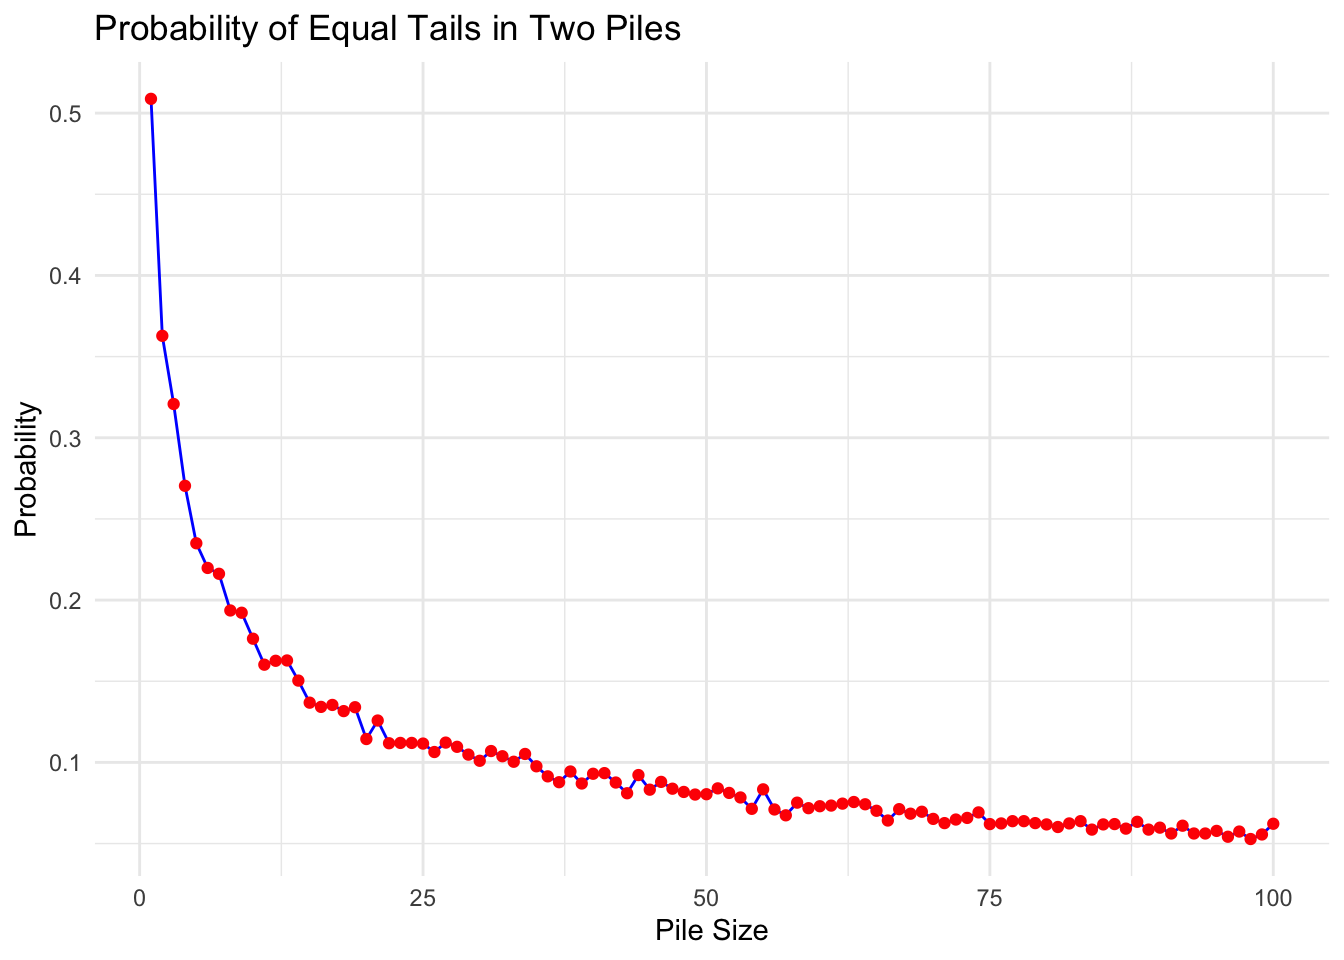
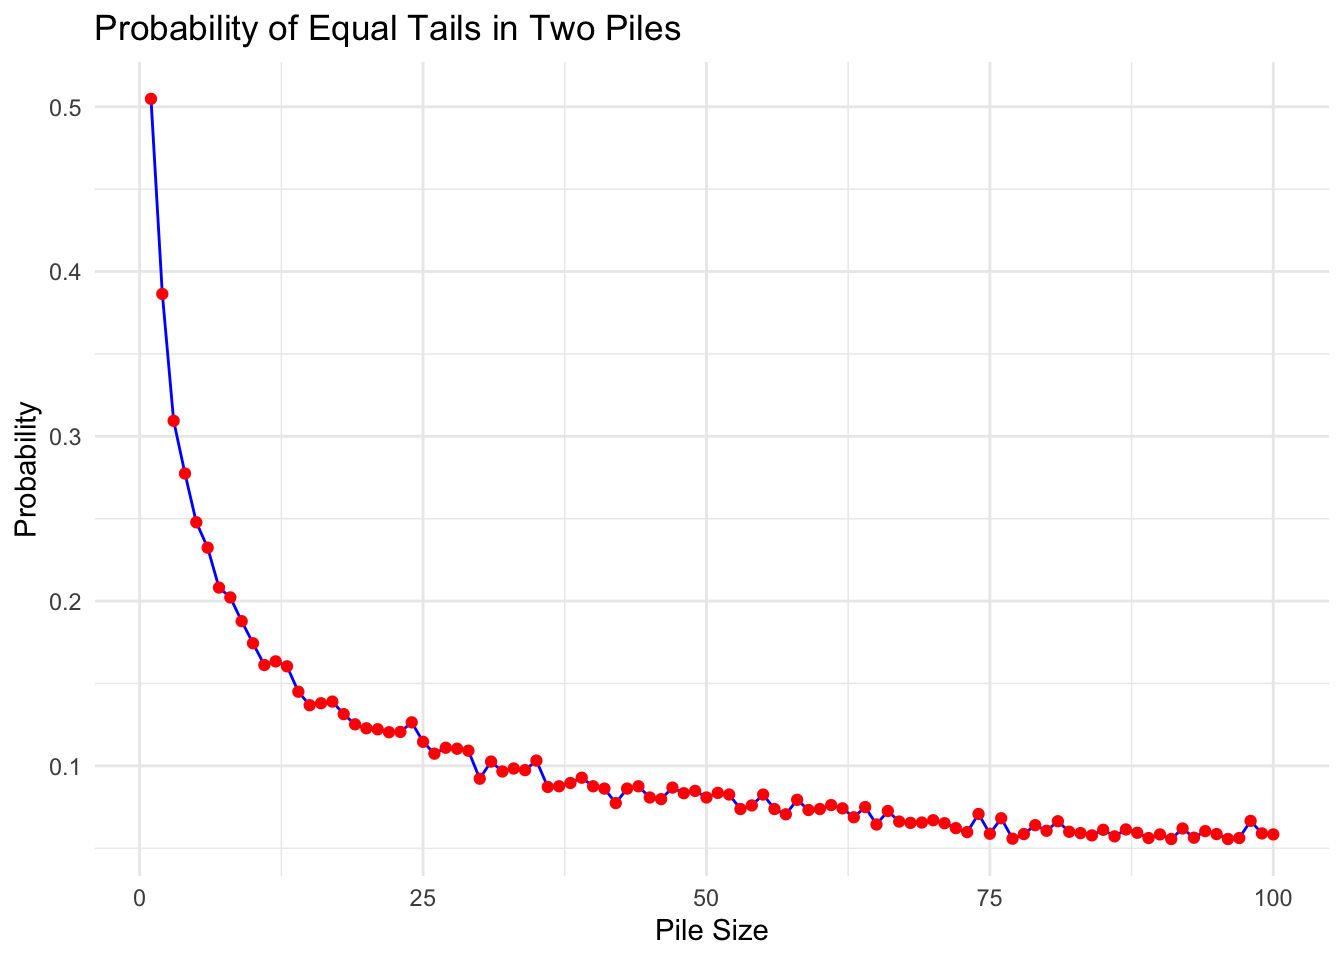
fixed variable names

diff --git a/docs/Project3.html b/docs/Project3.html
@@ -219,23 +219,23 @@ pre > code.sourceCode > span > a:first-child::before { text-decoration: underlin
 <div class="sourceCode cell-code" id="cb1"><pre class="sourceCode r code-with-copy"><code class="sourceCode r"><span id="cb1-1"><a href="#cb1-1" aria-hidden="true" tabindex="-1"></a><span class="fu">library</span>(purrr)</span>
 <span id="cb1-2"><a href="#cb1-2" aria-hidden="true" tabindex="-1"></a>coin_flip <span class="ot">&lt;-</span> <span class="fu">c</span>(<span class="dv">0</span>, <span class="dv">1</span>)</span>
 <span id="cb1-3"><a href="#cb1-3" aria-hidden="true" tabindex="-1"></a></span>
-<span id="cb1-4"><a href="#cb1-4" aria-hidden="true" tabindex="-1"></a>flip_coins <span class="ot">&lt;-</span> <span class="cf">function</span>(num_coins) {</span>
-<span id="cb1-5"><a href="#cb1-5" aria-hidden="true" tabindex="-1"></a>  left_pile <span class="ot">&lt;-</span> <span class="fu">sample</span>(coin_flip, <span class="at">size =</span> num_coins, <span class="at">replace =</span> <span class="cn">TRUE</span>)</span>
-<span id="cb1-6"><a href="#cb1-6" aria-hidden="true" tabindex="-1"></a>  right_pile <span class="ot">&lt;-</span> <span class="fu">sample</span>(coin_flip, <span class="at">size =</span> num_coins, <span class="at">replace =</span> <span class="cn">TRUE</span>)</span>
+<span id="cb1-4"><a href="#cb1-4" aria-hidden="true" tabindex="-1"></a>flip_coins <span class="ot">&lt;-</span> <span class="cf">function</span>(pile_size) {</span>
+<span id="cb1-5"><a href="#cb1-5" aria-hidden="true" tabindex="-1"></a>  left_pile <span class="ot">&lt;-</span> <span class="fu">sample</span>(coin_flip, <span class="at">size =</span> pile_size, <span class="at">replace =</span> <span class="cn">TRUE</span>)</span>
+<span id="cb1-6"><a href="#cb1-6" aria-hidden="true" tabindex="-1"></a>  right_pile <span class="ot">&lt;-</span> <span class="fu">sample</span>(coin_flip, <span class="at">size =</span> pile_size, <span class="at">replace =</span> <span class="cn">TRUE</span>)</span>
 <span id="cb1-7"><a href="#cb1-7" aria-hidden="true" tabindex="-1"></a>  </span>
 <span id="cb1-8"><a href="#cb1-8" aria-hidden="true" tabindex="-1"></a>  tails_match <span class="ot">&lt;-</span> <span class="fu">ifelse</span>(<span class="fu">sum</span>(left_pile) <span class="sc">==</span> <span class="fu">sum</span>(right_pile), <span class="dv">1</span>, <span class="dv">0</span>)</span>
 <span id="cb1-9"><a href="#cb1-9" aria-hidden="true" tabindex="-1"></a>  <span class="fu">return</span> (tails_match)</span>
 <span id="cb1-10"><a href="#cb1-10" aria-hidden="true" tabindex="-1"></a>}</span>
 <span id="cb1-11"><a href="#cb1-11" aria-hidden="true" tabindex="-1"></a></span>
-<span id="cb1-12"><a href="#cb1-12" aria-hidden="true" tabindex="-1"></a>coin_simulation <span class="ot">&lt;-</span> <span class="cf">function</span>(num_coins, num_iterations) {</span>
-<span id="cb1-13"><a href="#cb1-13" aria-hidden="true" tabindex="-1"></a>  results <span class="ot">&lt;-</span> <span class="fu">map_dbl</span>(<span class="fu">c</span>(<span class="dv">1</span><span class="sc">:</span>num_iterations), <span class="sc">~</span><span class="fu">flip_coins</span>(<span class="at">num_coins =</span> num_coins)) </span>
+<span id="cb1-12"><a href="#cb1-12" aria-hidden="true" tabindex="-1"></a>coin_simulation <span class="ot">&lt;-</span> <span class="cf">function</span>(pile_size, num_iterations) {</span>
+<span id="cb1-13"><a href="#cb1-13" aria-hidden="true" tabindex="-1"></a>  results <span class="ot">&lt;-</span> <span class="fu">map_dbl</span>(<span class="fu">c</span>(<span class="dv">1</span><span class="sc">:</span>num_iterations), <span class="sc">~</span><span class="fu">flip_coins</span>(<span class="at">pile_size =</span> pile_size)) </span>
 <span id="cb1-14"><a href="#cb1-14" aria-hidden="true" tabindex="-1"></a>  probability_same_tails <span class="ot">&lt;-</span> <span class="fu">mean</span>(results)</span>
 <span id="cb1-15"><a href="#cb1-15" aria-hidden="true" tabindex="-1"></a>  <span class="fu">return</span>(probability_same_tails)</span>
 <span id="cb1-16"><a href="#cb1-16" aria-hidden="true" tabindex="-1"></a>}</span>
 <span id="cb1-17"><a href="#cb1-17" aria-hidden="true" tabindex="-1"></a></span>
 <span id="cb1-18"><a href="#cb1-18" aria-hidden="true" tabindex="-1"></a><span class="fu">coin_simulation</span>(<span class="dv">50</span>, <span class="dv">100000</span>)</span></code><button title="Copy to Clipboard" class="code-copy-button"><i class="bi"></i></button></pre></div>
 <div class="cell-output cell-output-stdout">
-<pre><code>[1] 0.07941</code></pre>
+<pre><code>[1] 0.07887</code></pre>
 </div>
 </div>
 <p>According to the simulation, I could expect to get the right answer about 8% of the time!</p>
@@ -243,13 +243,13 @@ pre > code.sourceCode > span > a:first-child::before { text-decoration: underlin
 <div class="cell">
 <div class="sourceCode cell-code" id="cb3"><pre class="sourceCode r code-with-copy"><code class="sourceCode r"><span id="cb3-1"><a href="#cb3-1" aria-hidden="true" tabindex="-1"></a><span class="fu">library</span>(ggplot2)</span>
 <span id="cb3-2"><a href="#cb3-2" aria-hidden="true" tabindex="-1"></a></span>
-<span id="cb3-3"><a href="#cb3-3" aria-hidden="true" tabindex="-1"></a>num_coins <span class="ot">&lt;-</span> (<span class="dv">1</span><span class="sc">:</span><span class="dv">100</span>)</span>
+<span id="cb3-3"><a href="#cb3-3" aria-hidden="true" tabindex="-1"></a>pile_size <span class="ot">&lt;-</span> (<span class="dv">1</span><span class="sc">:</span><span class="dv">100</span>)</span>
 <span id="cb3-4"><a href="#cb3-4" aria-hidden="true" tabindex="-1"></a></span>
-<span id="cb3-5"><a href="#cb3-5" aria-hidden="true" tabindex="-1"></a>results_100 <span class="ot">&lt;-</span> <span class="fu">map_dbl</span>(num_coins, coin_simulation, <span class="at">num_iterations =</span> <span class="dv">5000</span>)</span>
-<span id="cb3-6"><a href="#cb3-6" aria-hidden="true" tabindex="-1"></a>results_df <span class="ot">&lt;-</span> <span class="fu">data.frame</span>(<span class="at">num_coins =</span> num_coins, <span class="at">probability =</span> results_100)</span>
+<span id="cb3-5"><a href="#cb3-5" aria-hidden="true" tabindex="-1"></a>results_100 <span class="ot">&lt;-</span> <span class="fu">map_dbl</span>(pile_size, coin_simulation, <span class="at">num_iterations =</span> <span class="dv">5000</span>)</span>
+<span id="cb3-6"><a href="#cb3-6" aria-hidden="true" tabindex="-1"></a>results_df <span class="ot">&lt;-</span> <span class="fu">data.frame</span>(<span class="at">pile_size =</span> pile_size, <span class="at">probability =</span> results_100)</span>
 <span id="cb3-7"><a href="#cb3-7" aria-hidden="true" tabindex="-1"></a></span>
 <span id="cb3-8"><a href="#cb3-8" aria-hidden="true" tabindex="-1"></a></span>
-<span id="cb3-9"><a href="#cb3-9" aria-hidden="true" tabindex="-1"></a><span class="fu">ggplot</span>(results_df, <span class="fu">aes</span>(<span class="at">x =</span> num_coins, <span class="at">y =</span> probability)) <span class="sc">+</span></span>
+<span id="cb3-9"><a href="#cb3-9" aria-hidden="true" tabindex="-1"></a><span class="fu">ggplot</span>(results_df, <span class="fu">aes</span>(<span class="at">x =</span> pile_size, <span class="at">y =</span> probability)) <span class="sc">+</span></span>
 <span id="cb3-10"><a href="#cb3-10" aria-hidden="true" tabindex="-1"></a>  <span class="fu">geom_line</span>(<span class="at">color =</span> <span class="st">"blue"</span>) <span class="sc">+</span></span>
 <span id="cb3-11"><a href="#cb3-11" aria-hidden="true" tabindex="-1"></a>  <span class="fu">geom_point</span>(<span class="at">color =</span> <span class="st">"red"</span>) <span class="sc">+</span></span>
 <span id="cb3-12"><a href="#cb3-12" aria-hidden="true" tabindex="-1"></a>  <span class="fu">labs</span>(</span>
